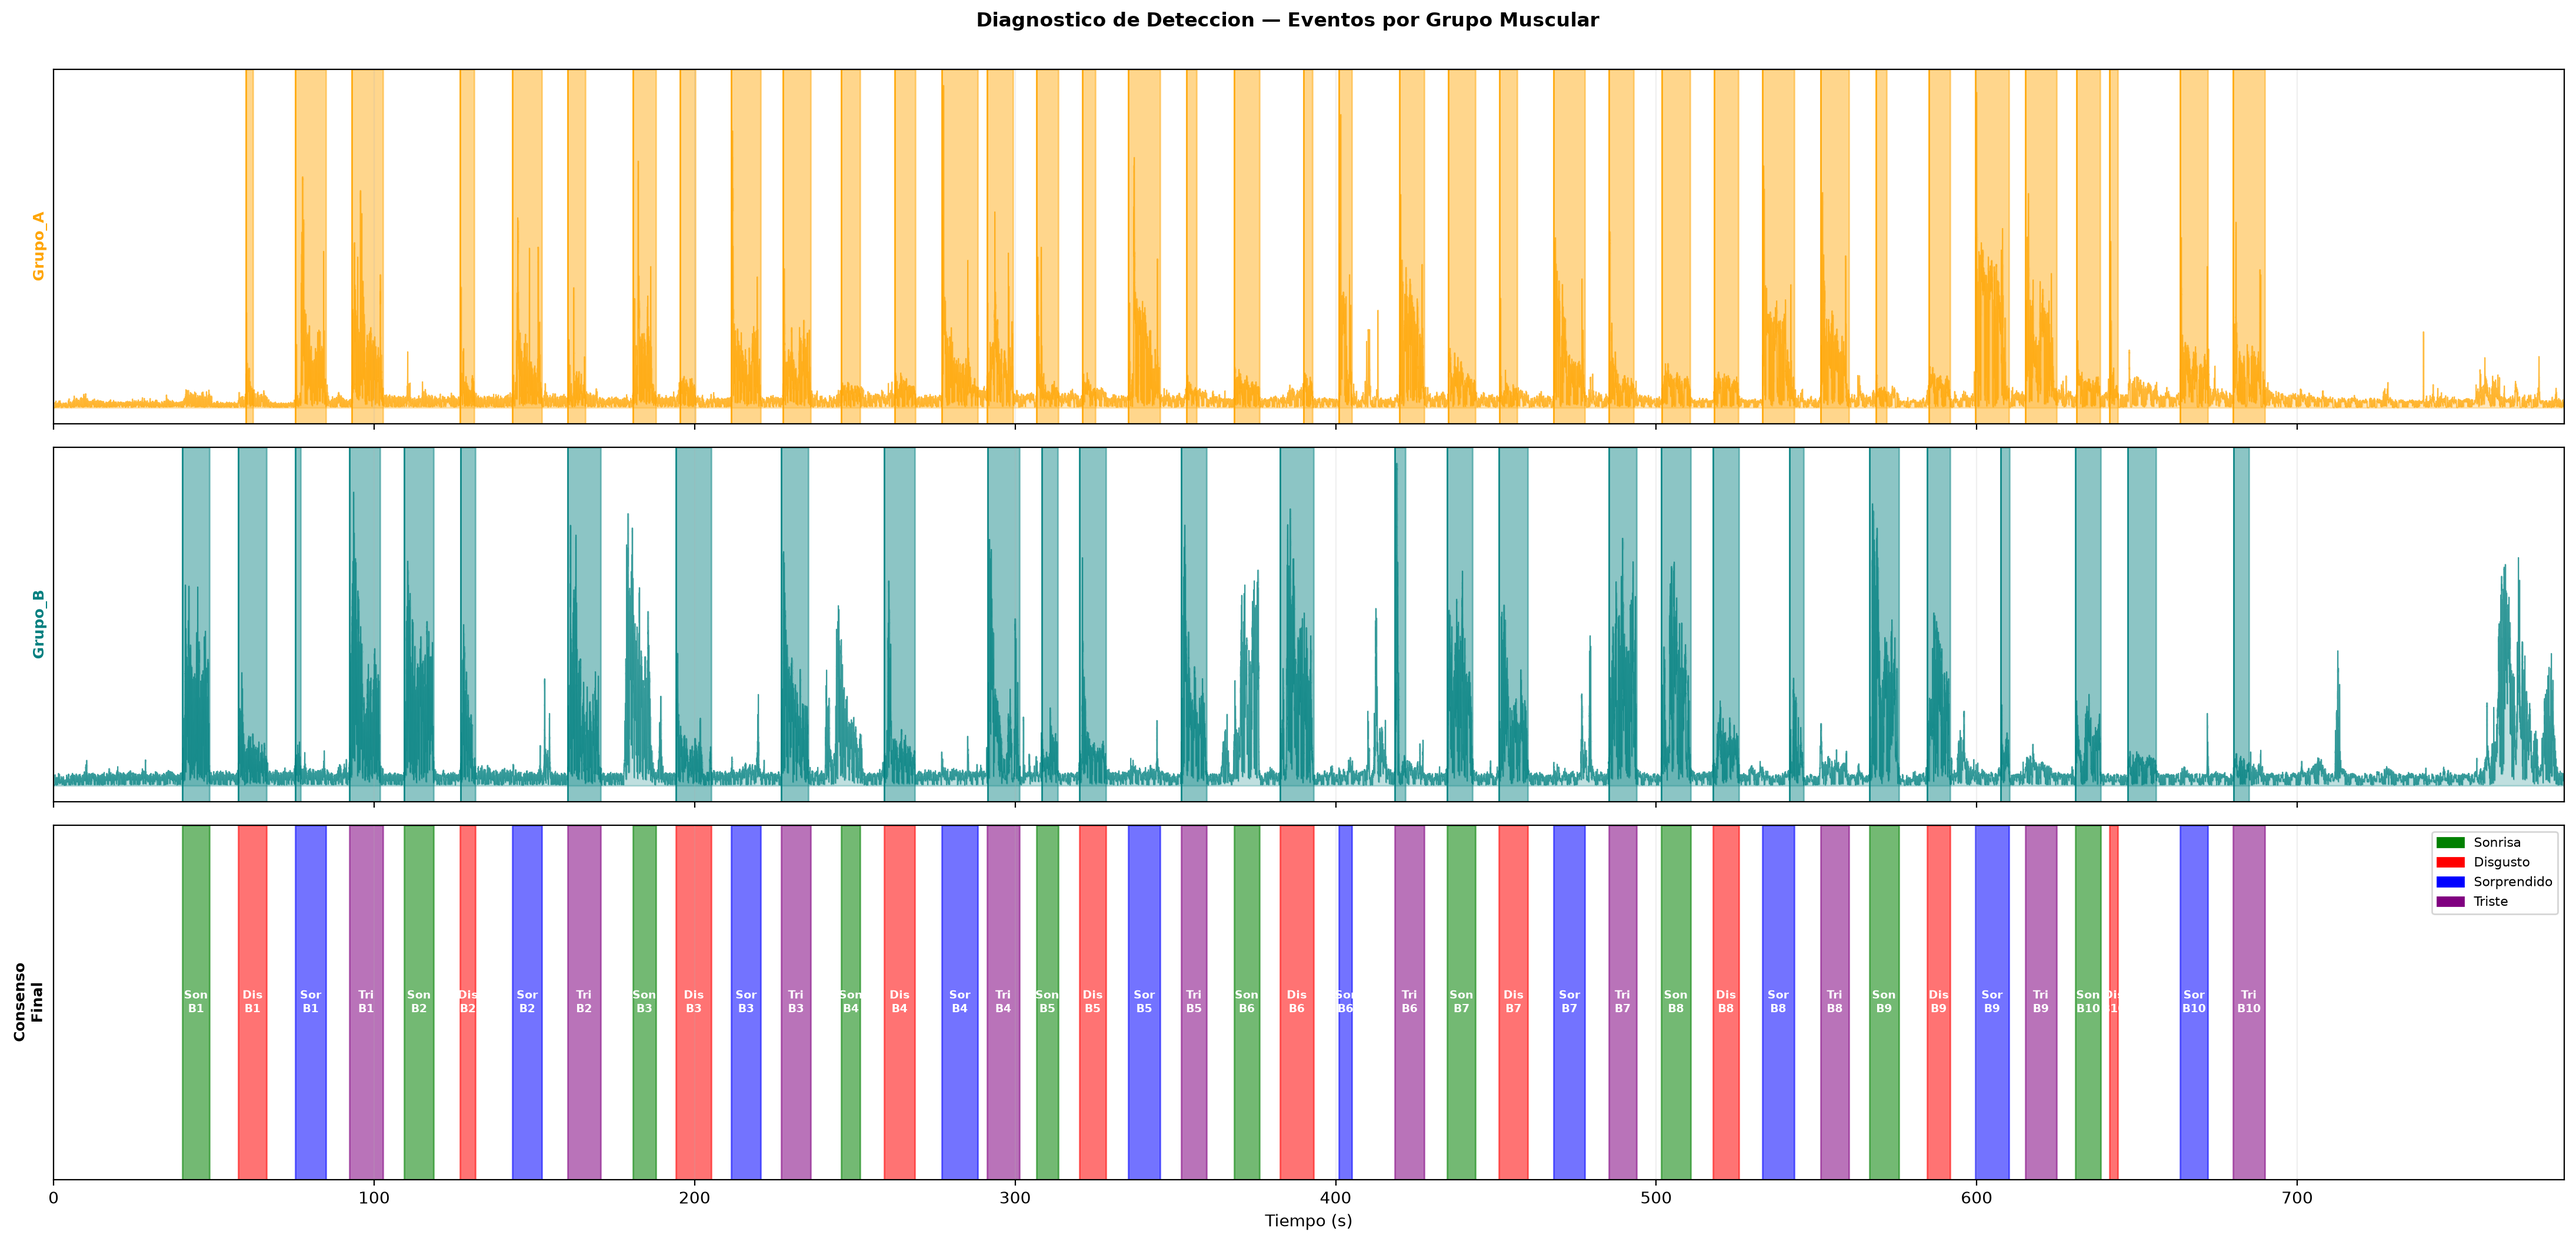
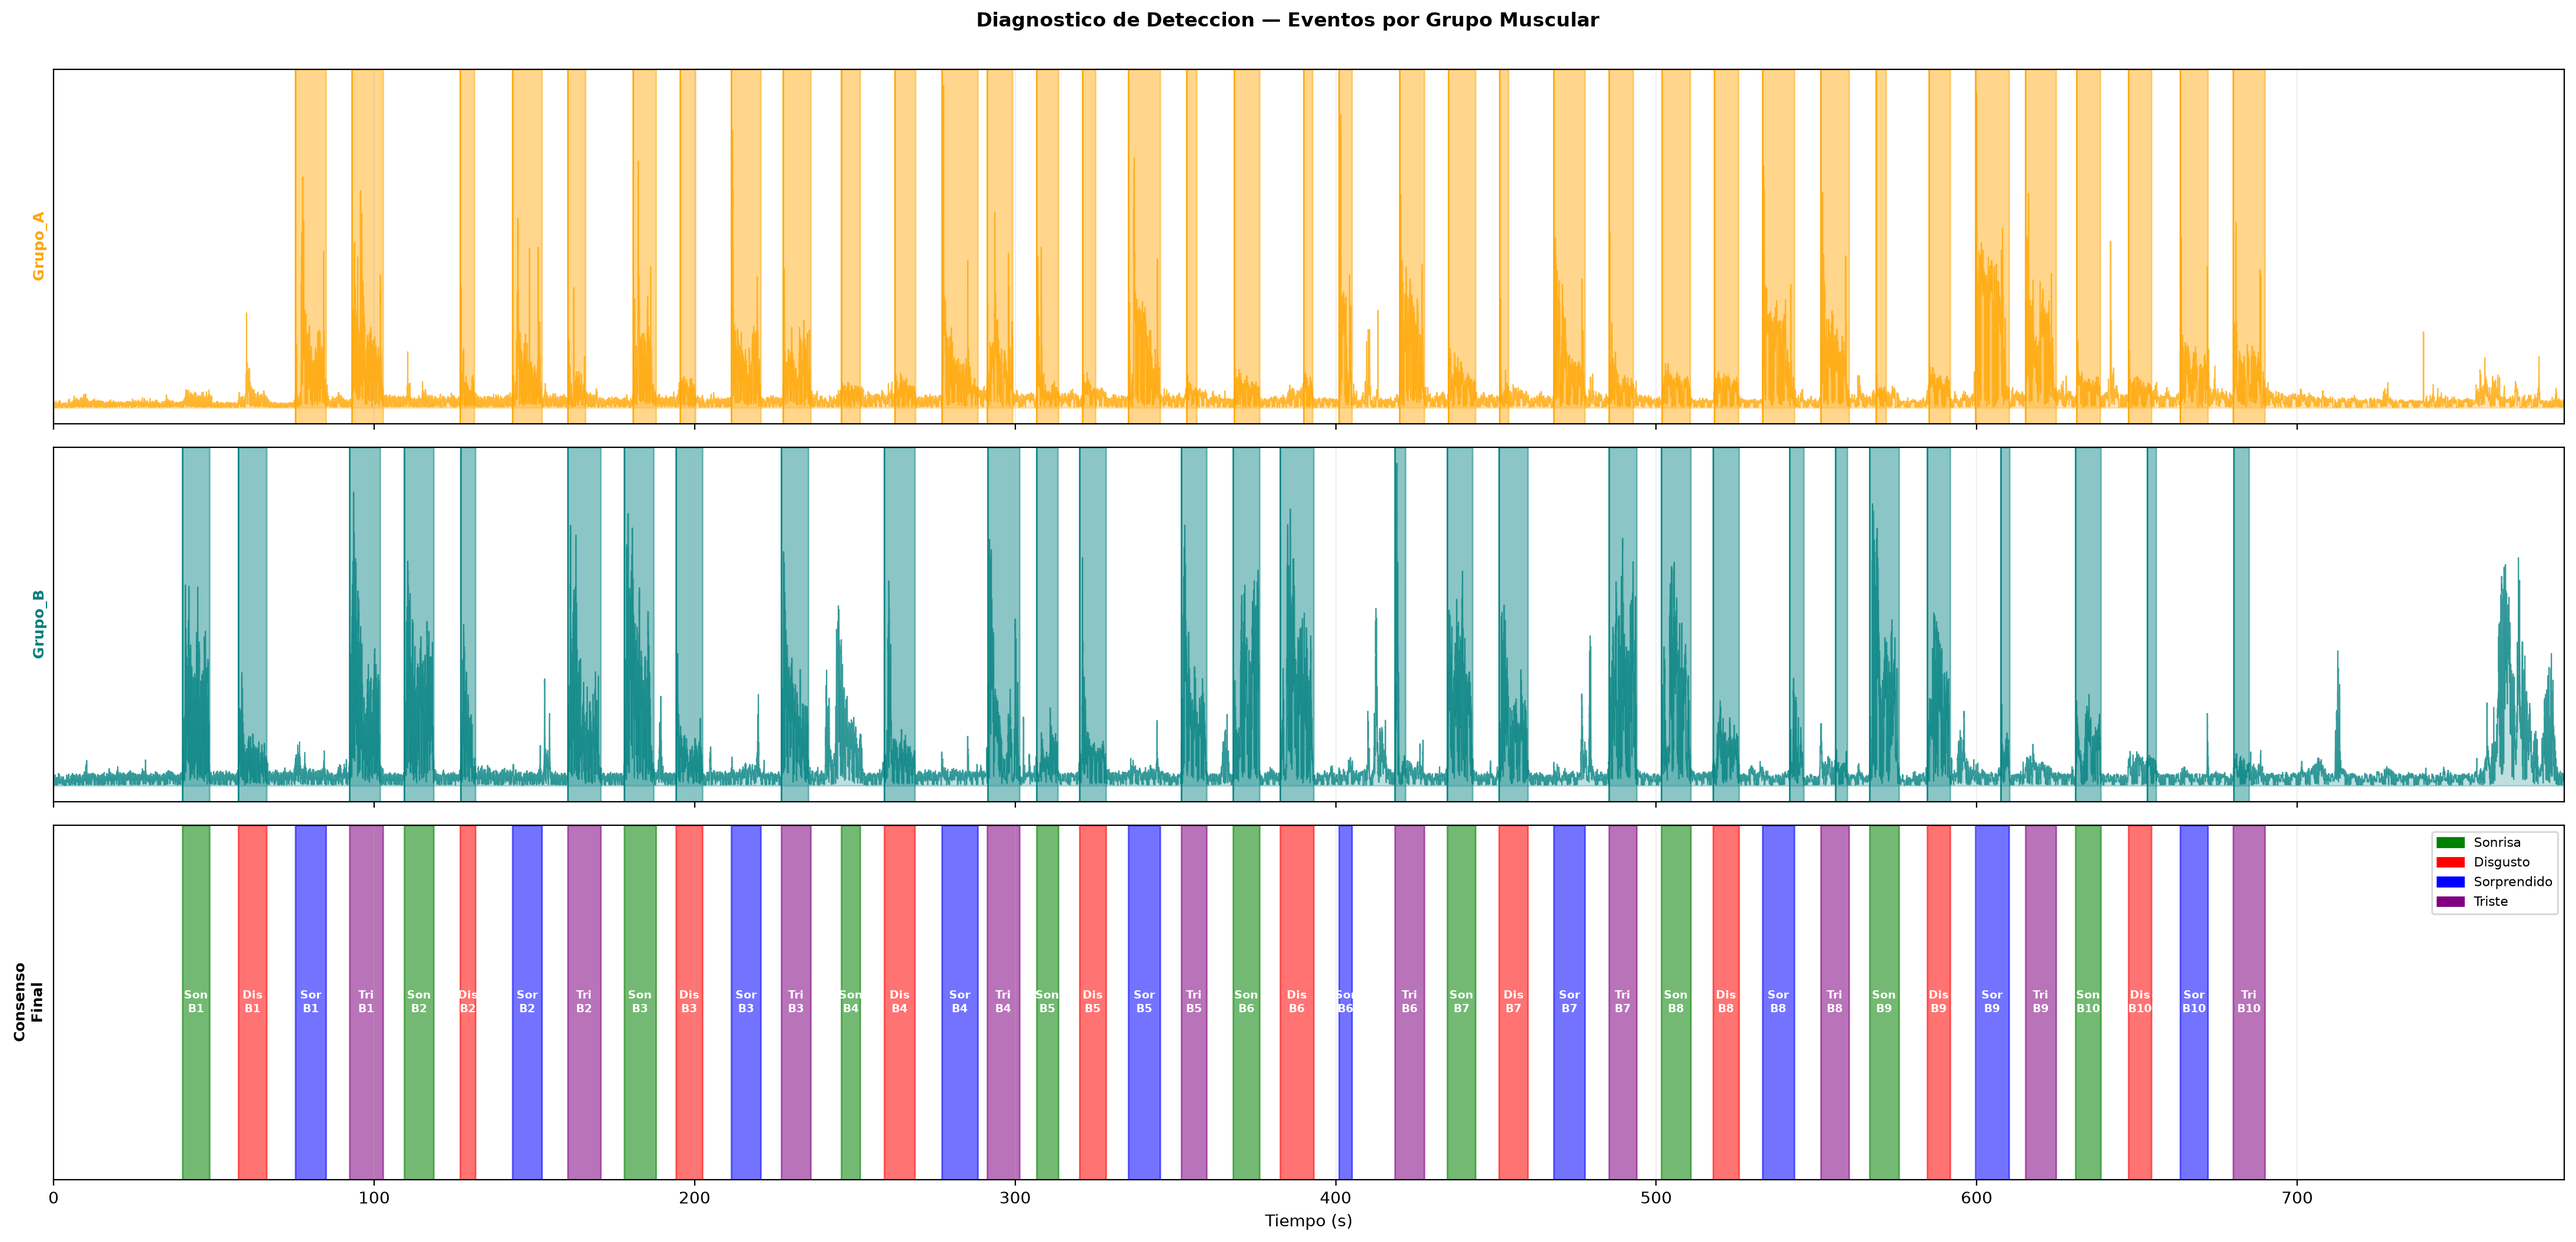
Configuracion de parametros para segmentacion de gestos en Test1

diff --git a/main/run_segmentation.py b/main/run_segmentation.py
@@ -40,10 +40,10 @@ if __name__ == "__main__":
         baseline_window_sec=20.0,           # usado solo si use_rolling_baseline=False
 
         # Umbral doble / hysteresis: apagado mas laxo que encendido
-        k_offset_ratio=0.58,
+        k_offset_ratio=0.6,
         k_offset_ratio_per_group={
-            "Grupo_A": 0.58,
-            "Grupo_B": 0.58,
+            "Grupo_A": 0.6,
+            "Grupo_B": 0.6,
         },
 
         # Refinamiento con baseline local pre-countdown (5s antes del countdown)
@@ -66,8 +66,8 @@ if __name__ == "__main__":
 
         # Forma de onda y gap filling
         smoothing_window_sec=0.5,     # Suavizado antes de detectar cruces
-        gap_fill_sec=2.5,             # Brecha maxima dentro de un mismo gesto
-        min_event_dur_sec=1.5,        # Minimo post-gap-filling
+        gap_fill_sec=1.5,             # Brecha maxima dentro de un mismo gesto
+        min_event_dur_sec=2.5,        # Minimo post-gap-filling
         max_event_dur_sec=11.1,       # Maximo (gestos no duran mas de esto)
 
         # Margenes de la epoca exportada
